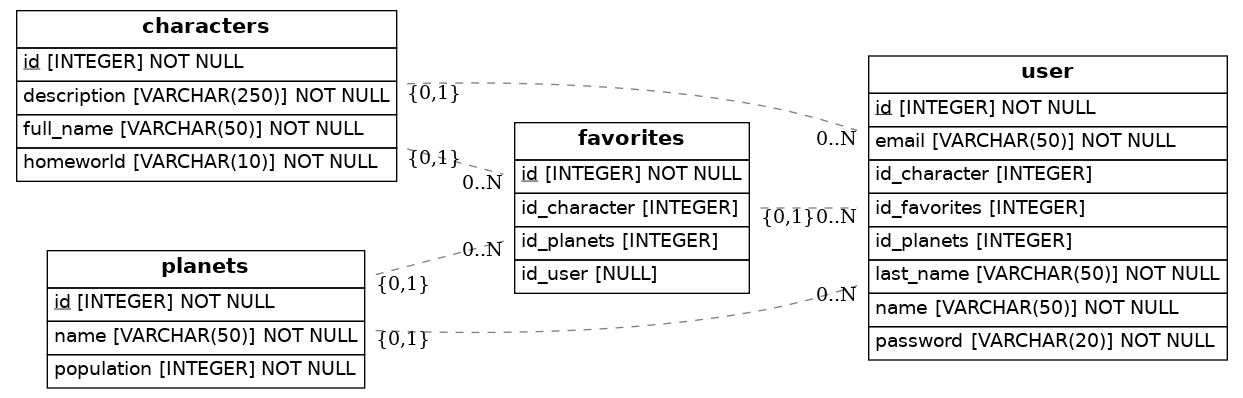
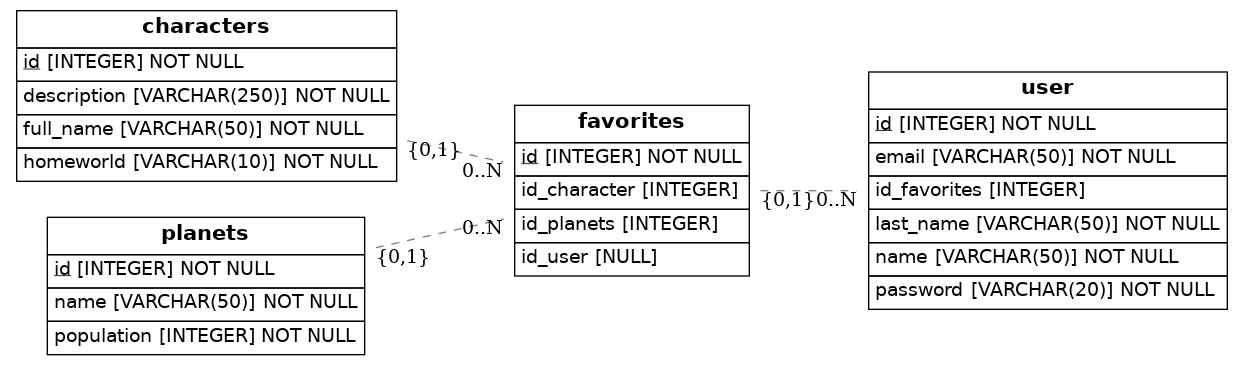
Modificaciones en las relaciones de las tablas

diff --git a/src/models.py b/src/models.py
@@ -19,12 +19,6 @@ class User(Base):
     #Relacion con la Tabla Favorites
     id_favorites = Column(ForeignKey("favorites.id"))
     favorites = relationship( "Favorites", back_populates = "user")
-    #Relacion con la Tabla character
-    id_character = Column(ForeignKey("characters.id"))
-    character = relationship("Characters", back_populates = "user")
-    #Relacion con la Tabla Planets
-    id_planets = Column(ForeignKey("planets.id"))
-    planets = relationship( "Planets", back_populates = "user")
 
 class Characters(Base):
     __tablename__ = 'characters'
